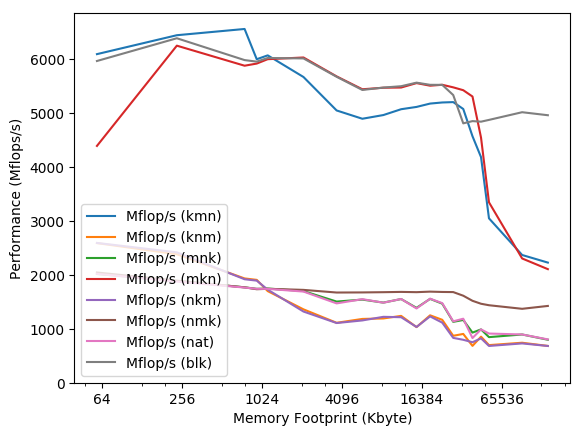
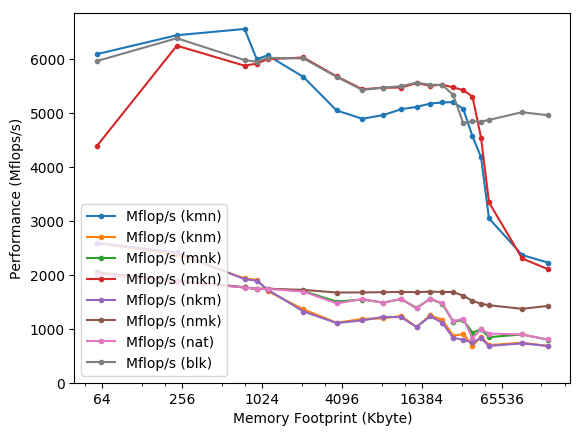
Changed plots

diff --git a/viz.py b/viz.py
@@ -52,15 +52,15 @@ df9 = pd.read_csv('data/%s/%s/blk.%s.%s.dat'%(cc, opt, opt, cc),delim_whitespace
         
 		
 plt.figure()
-ax = df1.plot('memory',logx=False)
-df2.plot('memory', ax=ax)
-df3.plot('memory', ax=ax)
-df4.plot('memory', ax=ax)
-df5.plot('memory', ax=ax)
-df6.plot('memory', ax=ax)
-df7.plot('memory', ax=ax)
-#df8.plot('memory', ax=ax)
-df9.plot('memory', ax=ax)
+ax = df1.plot('memory',logx=False, style='.-')
+df2.plot('memory', ax=ax, style='.-')
+df3.plot('memory', ax=ax, style='.-')
+df4.plot('memory', ax=ax, style='.-')
+df5.plot('memory', ax=ax, style='.-')
+df6.plot('memory', ax=ax, style='.-')
+df7.plot('memory', ax=ax, style='.-')
+#df8.plot('memory', ax=ax, style='.-')
+df9.plot('memory', ax=ax, style='.-')
 plt.legend(loc='lower left')
 plt.xlabel('Memory Footprint (Kbyte)')
 plt.ylabel('Performance (Mflops/s)')

diff --git a/viz_lib.py b/viz_lib.py
@@ -40,12 +40,12 @@ df6 = pd.read_csv('data/suncc/fast_loop/lib.fast_loop.suncc.dat',delim_whitespac
         
 		
 plt.figure()
-ax = df1.plot('memory',logx=False)
-df2.plot('memory', ax=ax)
-df3.plot('memory', ax=ax)
-df4.plot('memory', ax=ax)
-df5.plot('memory', ax=ax)
-df6.plot('memory', ax=ax)
+ax = df1.plot('memory',logx=False, style='.-')
+df2.plot('memory', ax=ax, style='.-')
+df3.plot('memory', ax=ax, style='.-')
+df4.plot('memory', ax=ax, style='.-')
+df5.plot('memory', ax=ax, style='.-')
+df6.plot('memory', ax=ax, style='.-')
 plt.legend(loc='lower left')
 plt.xlabel('Memory Footprint (Kbyte)')
 plt.ylabel('Performance (Mflops/s)')
